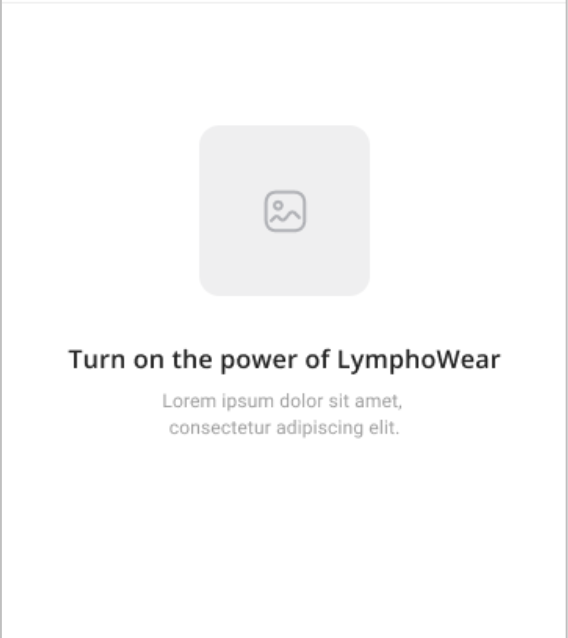
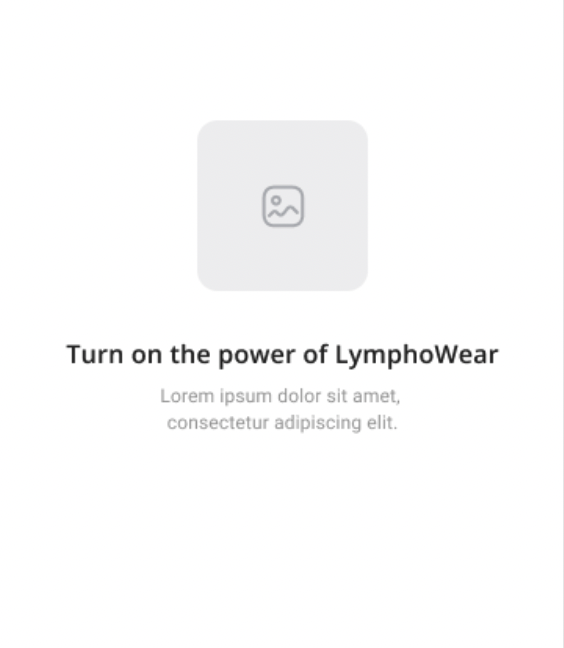
Color 정리

diff --git a/lib/pages/pairing_page.dart b/lib/pages/pairing_page.dart
@@ -33,6 +33,7 @@ class _PairingPageState extends State<PairingPage> {
     pageController = PageController();
     var pageSize = MediaQuery.of(context).size;
     return Scaffold(
+      backgroundColor: Colors.white,
       resizeToAvoidBottomInset: false,
       appBar: AppBar(
         title: const Text(
@@ -40,6 +41,7 @@ class _PairingPageState extends State<PairingPage> {
           style: TextStyle(fontSize: 20, fontWeight: FontWeight.bold),
         ),
         centerTitle: true,
+        backgroundColor: Colors.white,
       ),
       body: Center(
         child: Column(
@@ -53,7 +55,7 @@ class _PairingPageState extends State<PairingPage> {
               alignment: Alignment.center,
               decoration: const BoxDecoration(
                 shape: BoxShape.rectangle,
-                color: Colors.transparent,
+                color: Colors.white,
               ),
               child: PageView(
                 controller: pageController,
@@ -73,7 +75,7 @@ class _PairingPageState extends State<PairingPage> {
               alignment: Alignment.center,
               decoration: const BoxDecoration(
                 shape: BoxShape.rectangle,
-                color: Colors.transparent,
+                color: Colors.white,
               ),
               child: ElevatedButton(
                 style: ElevatedButton.styleFrom(
@@ -82,7 +84,6 @@ class _PairingPageState extends State<PairingPage> {
                   onPrimary: Colors.white,
                   textStyle: const TextStyle(
                       fontSize: 18, fontWeight: FontWeight.bold),
-                  shadowColor: Colors.red,
                 ),
                 onPressed: isButtonActive
                     ? () {

diff --git a/lib/pages/onboarding_page.dart b/lib/pages/onboarding_page.dart
@@ -32,8 +32,11 @@ class _OnboardingPageState extends State<OnboardingPage> {
     pageController = PageController(initialPage: 0, viewportFraction: 0.65);
     var pageSize = MediaQuery.of(context).size;
     return Scaffold(
+        backgroundColor: Colors.white,
         resizeToAvoidBottomInset: false,
-        appBar: AppBar(),
+        appBar: AppBar(
+          backgroundColor: Colors.white,
+        ),
         body: Center(
           child: Column(
             mainAxisAlignment: MainAxisAlignment.center,
@@ -46,7 +49,7 @@ class _OnboardingPageState extends State<OnboardingPage> {
                 alignment: Alignment.center,
                 decoration: const BoxDecoration(
                   shape: BoxShape.rectangle,
-                  color: Colors.transparent,
+                  color: Colors.white,
                 ),
                 child: PageView.builder(
                   controller: pageController,
@@ -81,7 +84,7 @@ class _OnboardingPageState extends State<OnboardingPage> {
                 alignment: Alignment.center,
                 decoration: const BoxDecoration(
                   shape: BoxShape.rectangle,
-                  color: Colors.transparent,
+                  color: Colors.white,
                 ),
                 child: ElevatedButton(
                   style: ElevatedButton.styleFrom(

diff --git a/lib/pages/contents/onboarding_contents.dart b/lib/pages/contents/onboarding_contents.dart
@@ -18,6 +18,7 @@ class _OnboardingContentsState extends State<OnboardingContents> {
   Widget build(BuildContext context) {
     var pageSize = MediaQuery.of(context).size;
     return Container(
+      color: Colors.white,
       margin: const EdgeInsets.all(0.0),
       padding: const EdgeInsets.all(0.0),
       width: double.infinity,

diff --git a/lib/main.dart b/lib/main.dart
@@ -7,7 +7,7 @@ void main() {
   SystemChrome.setSystemUIOverlayStyle(const SystemUiOverlayStyle(
     statusBarBrightness: Brightness.light,
     statusBarIconBrightness: Brightness.dark,
-    statusBarColor: Colors.transparent,
+    statusBarColor: Colors.white,
   ));
   runApp(const MyApp());
 }
